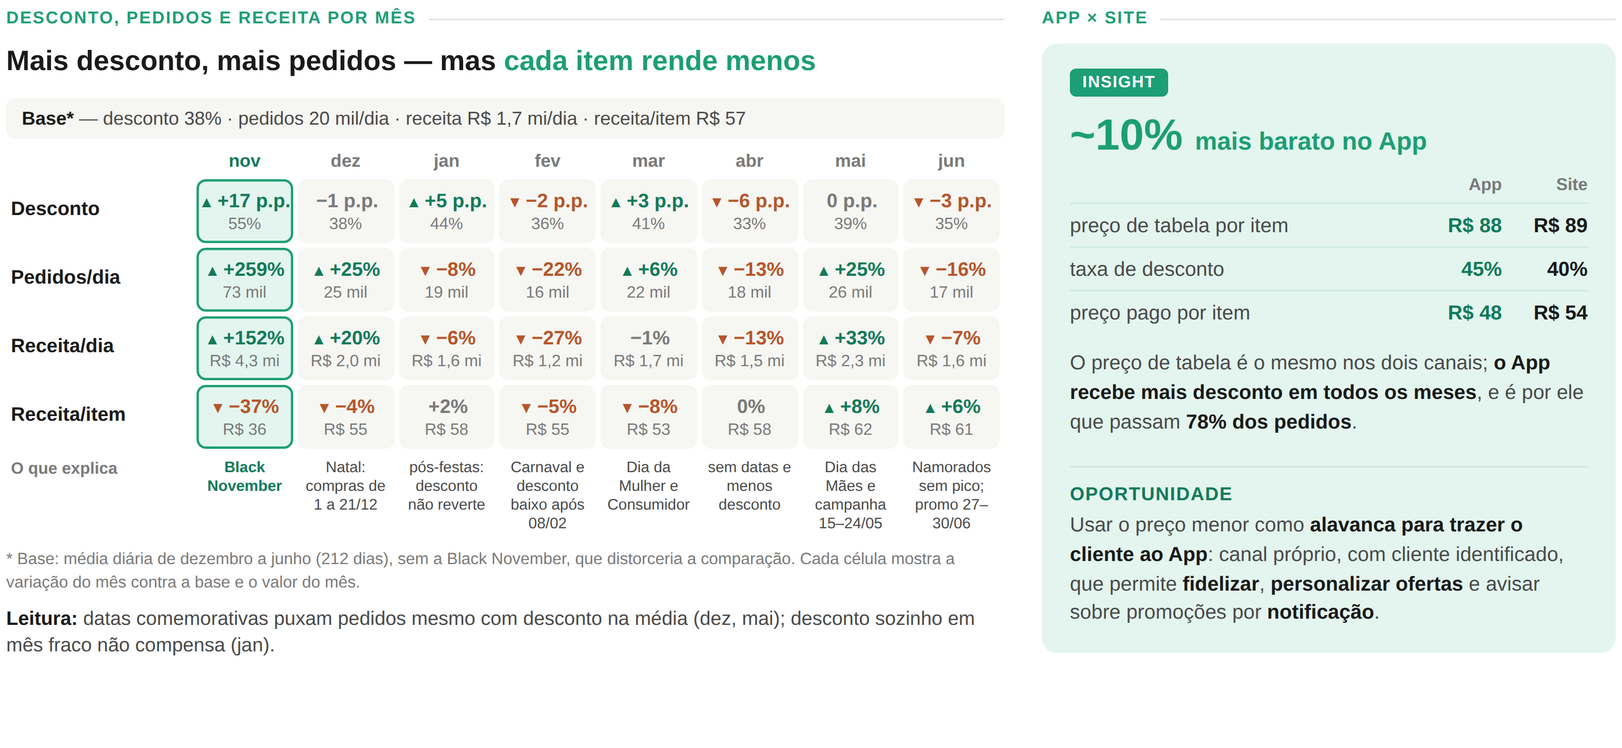
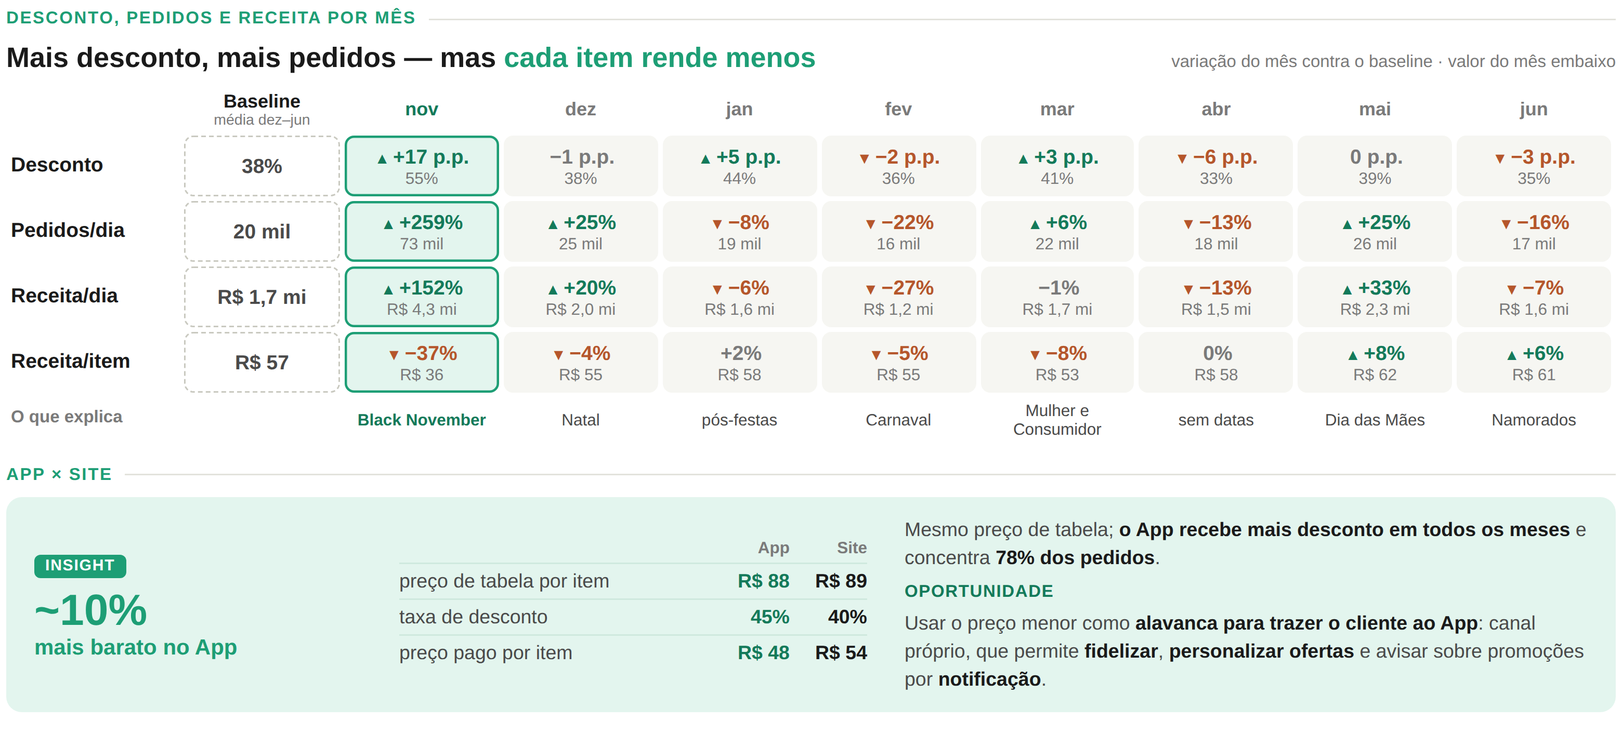
Widget de receita e desconto: coluna de baseline, motivos curtos e insight do App embaixo
Claude-Session: https://claude.ai/code/session_01NUJZKTcM8cs9QBTcUeuacF

diff --git a/apresentacao/widgets/03_desconto.html b/apresentacao/widgets/03_desconto.html
@@ -8,7 +8,6 @@
     --verde: #1d9e75;
     --verde-escuro: #137a5a;
     --verde-claro: #e3f5ee;
-    --verde-medio: #a6d9c6;
     --tinta: #1a1a1a;
     --tinta-2: #4a4a4a;
     --tinta-3: #7a7a7a;
@@ -20,61 +19,55 @@
     width: 1040px; height: 480px; background: var(--fundo);
     font-family: Arial, "Helvetica Neue", Helvetica, sans-serif; color: var(--tinta);
   }
-  .widget { display: grid; grid-template-columns: 640px 1fr; gap: 24px; height: 100%; padding: 6px 4px; }
+  .widget { display: grid; grid-template-rows: auto 1fr; gap: 14px; height: 100%; padding: 6px 4px; }
   .rotulo {
     font-size: 11px; font-weight: 700; letter-spacing: .08em; text-transform: uppercase;
-    color: var(--verde); margin-bottom: 10px; display: flex; align-items: center; gap: 8px;
+    color: var(--verde); margin-bottom: 8px; display: flex; align-items: center; gap: 8px;
   }
   .rotulo::after { content: ""; flex: 1; height: 1px; background: var(--linha); }
-  h3 { font-size: 18px; line-height: 1.25; font-weight: 700; margin-bottom: 12px; }
+  .topo { display: flex; align-items: baseline; justify-content: space-between; margin-bottom: 6px; }
+  h3 { font-size: 18px; line-height: 1.25; font-weight: 700; }
   h3 span { color: var(--verde); }
-  .nota { font-size: 12px; color: var(--tinta-2); line-height: 1.4; margin-top: 8px; }
-  .nota b { color: var(--tinta); }
+  .legenda-m { font-size: 11px; color: var(--tinta-3); }
 
+  /* matriz */
   .matriz { width: 100%; border-collapse: separate; border-spacing: 3px; table-layout: fixed; }
-  .matriz th.linha { white-space: nowrap; }
-  .matriz th { font-size: 11.5px; color: var(--tinta-3); font-weight: 700; text-align: center; padding-bottom: 2px; }
+  .matriz th { font-size: 12px; color: var(--tinta-3); font-weight: 700; text-align: center; padding-bottom: 1px; }
   .matriz th.nov { color: var(--verde-escuro); }
-  .matriz th.linha { width: 116px; text-align: left; font-size: 12.5px; color: var(--tinta); }
-  .matriz th.linha span { display: block; white-space: nowrap; font-size: 10px; font-weight: 400; color: var(--tinta-3); margin-top: 2px; }
-  .matriz td { text-align: center; border-radius: 6px; padding: 7px 1px 6px; background: #f6f6f2; }
+  .matriz th.linha { width: 108px; text-align: left; font-size: 13px; color: var(--tinta); white-space: nowrap; }
+  .matriz th.base-cab { width: 100px; color: var(--tinta); }
+  .matriz th.base-cab span { display: block; font-size: 9.5px; font-weight: 400; color: var(--tinta-3); }
+  .matriz td { text-align: center; border-radius: 6px; padding: 6px 1px 5px; background: #f6f6f2; }
+  .matriz td.base { background: #ffffff; border: 1px dashed #c9c9c0; font-size: 13px; font-weight: 700; color: var(--tinta-2); }
   .matriz td.nov { background: var(--verde-claro); box-shadow: inset 0 0 0 1.5px var(--verde); }
-  .delta { font-size: 12.5px; font-weight: 700; white-space: nowrap; }
+  .delta { font-size: 13px; font-weight: 700; white-space: nowrap; }
   .seta { font-size: 10px; margin-right: 2px; }
   .sobe .delta { color: var(--verde-escuro); }
   .desce .delta { color: #b5562b; }
   .neutro .delta { color: var(--tinta-3); }
-  .abs { font-size: 10.5px; color: var(--tinta-3); margin-top: 2px; white-space: nowrap; }
-  .base-linha { font-size: 12px; color: var(--tinta-2); background: #f6f6f2; border-radius: 6px; padding: 6px 10px; margin-bottom: 6px; }
-  .base-linha b { color: var(--tinta); }
-  .matriz td.motivo { background: none; font-size: 9.8px; line-height: 1.25; color: var(--tinta-2); padding: 4px 2px 0; vertical-align: top; }
+  .abs { font-size: 10.5px; color: var(--tinta-3); margin-top: 1px; white-space: nowrap; }
+  .matriz td.motivo { background: none; border: none; font-size: 10.5px; color: var(--tinta-2); padding: 3px 2px 0; }
   .matriz td.motivo.nov { box-shadow: none; color: var(--verde-escuro); font-weight: 700; }
-  .matriz th.motivo-tit { font-size: 10.5px; color: var(--tinta-3); vertical-align: top; padding-top: 4px; }
-  .leitura { font-size: 12.5px; color: var(--tinta-2); margin-top: 8px; line-height: 1.4; }
-  .leitura b { color: var(--tinta); }
-  .legenda-m { font-size: 10.5px; color: var(--tinta-3); margin-top: 6px; line-height: 1.35; }
-  .legenda-m b { color: var(--tinta-2); }
-  .leituras { margin-top: 10px; padding-left: 16px; font-size: 12.5px; color: var(--tinta-2); line-height: 1.45; }
-  .leituras li { margin-bottom: 3px; }
-  .leituras b { color: var(--tinta); }
+  .matriz th.motivo-tit { font-size: 11px; color: var(--tinta-3); font-weight: 700; }
 
-  .insight { background: var(--verde-claro); border-radius: 10px; padding: 16px 18px; display: flex; flex-direction: column; }
+  /* insight App × Site (faixa horizontal) */
+  .insight { background: var(--verde-claro); border-radius: 10px; padding: 12px 18px; display: grid;
+             grid-template-columns: 210px 300px 1fr; gap: 24px; align-items: center; }
   .selo {
-    align-self: flex-start; font-size: 10.5px; font-weight: 700; letter-spacing: .06em; text-transform: uppercase;
-    color: #fff; background: var(--verde); border-radius: 4px; padding: 3px 8px; margin-bottom: 10px;
+    display: inline-block; font-size: 10px; font-weight: 700; letter-spacing: .06em; text-transform: uppercase;
+    color: #fff; background: var(--verde); border-radius: 4px; padding: 2px 7px; margin-bottom: 6px;
   }
   .valor-g { font-size: 28px; font-weight: 700; color: var(--verde); line-height: 1.05; }
-  .valor-g small { font-size: 16px; }
-  .comp { width: 100%; border-collapse: collapse; margin: 12px 0 10px; font-size: 13px; }
-  .comp th { text-align: right; font-size: 11px; color: var(--tinta-3); font-weight: 700; padding: 0 0 5px; }
+  .valor-g small { display: block; font-size: 14px; margin-top: 2px; }
+  .comp { width: 100%; border-collapse: collapse; font-size: 12.5px; }
+  .comp th { text-align: right; font-size: 10.5px; color: var(--tinta-3); font-weight: 700; padding: 0 0 3px; }
   .comp th:first-child, .comp td:first-child { text-align: left; }
-  .comp td { padding: 6px 0; border-top: 1px solid #cfe9de; text-align: right; color: var(--tinta-2); }
+  .comp td { padding: 4px 0; border-top: 1px solid #cfe9de; text-align: right; color: var(--tinta-2); }
   .comp td.app { color: var(--verde-escuro); font-weight: 700; }
   .comp td.site { color: var(--tinta); font-weight: 700; }
-  .texto { font-size: 13px; color: var(--tinta-2); line-height: 1.45; }
+  .texto { font-size: 12.5px; color: var(--tinta-2); line-height: 1.45; }
   .texto b { color: var(--tinta); }
-  .oportunidade { margin-top: 18px; border-top: 1px solid #cfe9de; padding-top: 10px; }
-  .oportunidade .tit { font-size: 12px; font-weight: 700; color: var(--verde-escuro); text-transform: uppercase; letter-spacing: .05em; margin-bottom: 4px; }
+  .texto .tit { display: block; font-size: 11px; font-weight: 700; color: var(--verde-escuro); text-transform: uppercase; letter-spacing: .05em; margin: 6px 0 2px; }
 </style>
 </head>
 <body>
@@ -82,28 +75,30 @@
 
   <section>
     <div class="rotulo">Desconto, pedidos e receita por mês</div>
-    <h3>Mais desconto, mais pedidos — mas <span>cada item rende menos</span></h3>
-    <div class="base-linha"><b>Base*</b> — desconto 38% · pedidos 20 mil/dia · receita R$ 1,7 mi/dia · receita/item R$ 57</div>
-    <table class="matriz"><tr><th class="linha"></th><th class="nov">nov</th><th class="">dez</th><th class="">jan</th><th class="">fev</th><th class="">mar</th><th class="">abr</th><th class="">mai</th><th class="">jun</th></tr><tr><th class="linha">Desconto</th><td class="sobe nov"><div class="delta"><span class="seta">▲</span>+17 p.p.</div><div class="abs">55%</div></td><td class="neutro"><div class="delta"><span class="seta"></span>−1 p.p.</div><div class="abs">38%</div></td><td class="sobe"><div class="delta"><span class="seta">▲</span>+5 p.p.</div><div class="abs">44%</div></td><td class="desce"><div class="delta"><span class="seta">▼</span>−2 p.p.</div><div class="abs">36%</div></td><td class="sobe"><div class="delta"><span class="seta">▲</span>+3 p.p.</div><div class="abs">41%</div></td><td class="desce"><div class="delta"><span class="seta">▼</span>−6 p.p.</div><div class="abs">33%</div></td><td class="neutro"><div class="delta"><span class="seta"></span>0 p.p.</div><div class="abs">39%</div></td><td class="desce"><div class="delta"><span class="seta">▼</span>−3 p.p.</div><div class="abs">35%</div></td></tr><tr><th class="linha">Pedidos/dia</th><td class="sobe nov"><div class="delta"><span class="seta">▲</span>+259%</div><div class="abs">73 mil</div></td><td class="sobe"><div class="delta"><span class="seta">▲</span>+25%</div><div class="abs">25 mil</div></td><td class="desce"><div class="delta"><span class="seta">▼</span>−8%</div><div class="abs">19 mil</div></td><td class="desce"><div class="delta"><span class="seta">▼</span>−22%</div><div class="abs">16 mil</div></td><td class="sobe"><div class="delta"><span class="seta">▲</span>+6%</div><div class="abs">22 mil</div></td><td class="desce"><div class="delta"><span class="seta">▼</span>−13%</div><div class="abs">18 mil</div></td><td class="sobe"><div class="delta"><span class="seta">▲</span>+25%</div><div class="abs">26 mil</div></td><td class="desce"><div class="delta"><span class="seta">▼</span>−16%</div><div class="abs">17 mil</div></td></tr><tr><th class="linha">Receita/dia</th><td class="sobe nov"><div class="delta"><span class="seta">▲</span>+152%</div><div class="abs">R$ 4,3 mi</div></td><td class="sobe"><div class="delta"><span class="seta">▲</span>+20%</div><div class="abs">R$ 2,0 mi</div></td><td class="desce"><div class="delta"><span class="seta">▼</span>−6%</div><div class="abs">R$ 1,6 mi</div></td><td class="desce"><div class="delta"><span class="seta">▼</span>−27%</div><div class="abs">R$ 1,2 mi</div></td><td class="neutro"><div class="delta"><span class="seta"></span>−1%</div><div class="abs">R$ 1,7 mi</div></td><td class="desce"><div class="delta"><span class="seta">▼</span>−13%</div><div class="abs">R$ 1,5 mi</div></td><td class="sobe"><div class="delta"><span class="seta">▲</span>+33%</div><div class="abs">R$ 2,3 mi</div></td><td class="desce"><div class="delta"><span class="seta">▼</span>−7%</div><div class="abs">R$ 1,6 mi</div></td></tr><tr><th class="linha">Receita/item</th><td class="desce nov"><div class="delta"><span class="seta">▼</span>−37%</div><div class="abs">R$ 36</div></td><td class="desce"><div class="delta"><span class="seta">▼</span>−4%</div><div class="abs">R$ 55</div></td><td class="neutro"><div class="delta"><span class="seta"></span>+2%</div><div class="abs">R$ 58</div></td><td class="desce"><div class="delta"><span class="seta">▼</span>−5%</div><div class="abs">R$ 55</div></td><td class="desce"><div class="delta"><span class="seta">▼</span>−8%</div><div class="abs">R$ 53</div></td><td class="neutro"><div class="delta"><span class="seta"></span>0%</div><div class="abs">R$ 58</div></td><td class="sobe"><div class="delta"><span class="seta">▲</span>+8%</div><div class="abs">R$ 62</div></td><td class="sobe"><div class="delta"><span class="seta">▲</span>+6%</div><div class="abs">R$ 61</div></td></tr><tr><th class="linha motivo-tit">O que explica</th><td class="motivo nov">Black November</td><td class="motivo">Natal: compras de 1 a 21/12</td><td class="motivo">pós-festas: desconto não reverte</td><td class="motivo">Carnaval e desconto baixo após 08/02</td><td class="motivo">Dia da Mulher e Consumidor</td><td class="motivo">sem datas e menos desconto</td><td class="motivo">Dia das Mães e campanha 15–24/05</td><td class="motivo">Namorados sem pico; promo 27–30/06</td></tr></table>
-    <div class="legenda-m">* Base: média diária de dezembro a junho (212 dias), sem a Black November, que distorceria a comparação. Cada célula mostra a variação do mês contra a base e o valor do mês.</div>
-    <div class="leitura"><b>Leitura:</b> datas comemorativas puxam pedidos mesmo com desconto na média (dez, mai); desconto sozinho em mês fraco não compensa (jan).</div>
+    <div class="topo">
+      <h3>Mais desconto, mais pedidos — mas <span>cada item rende menos</span></h3>
+      <div class="legenda-m">variação do mês contra o baseline · valor do mês embaixo</div>
+    </div>
+    <table class="matriz"><tr><th class="linha"></th><th class="base-cab">Baseline<span>média dez–jun</span></th><th class="nov">nov</th><th class="">dez</th><th class="">jan</th><th class="">fev</th><th class="">mar</th><th class="">abr</th><th class="">mai</th><th class="">jun</th></tr><tr><th class="linha">Desconto</th><td class="base">38%</td><td class="sobe nov"><div class="delta"><span class="seta">▲</span>+17 p.p.</div><div class="abs">55%</div></td><td class="neutro"><div class="delta"><span class="seta"></span>−1 p.p.</div><div class="abs">38%</div></td><td class="sobe"><div class="delta"><span class="seta">▲</span>+5 p.p.</div><div class="abs">44%</div></td><td class="desce"><div class="delta"><span class="seta">▼</span>−2 p.p.</div><div class="abs">36%</div></td><td class="sobe"><div class="delta"><span class="seta">▲</span>+3 p.p.</div><div class="abs">41%</div></td><td class="desce"><div class="delta"><span class="seta">▼</span>−6 p.p.</div><div class="abs">33%</div></td><td class="neutro"><div class="delta"><span class="seta"></span>0 p.p.</div><div class="abs">39%</div></td><td class="desce"><div class="delta"><span class="seta">▼</span>−3 p.p.</div><div class="abs">35%</div></td></tr><tr><th class="linha">Pedidos/dia</th><td class="base">20 mil</td><td class="sobe nov"><div class="delta"><span class="seta">▲</span>+259%</div><div class="abs">73 mil</div></td><td class="sobe"><div class="delta"><span class="seta">▲</span>+25%</div><div class="abs">25 mil</div></td><td class="desce"><div class="delta"><span class="seta">▼</span>−8%</div><div class="abs">19 mil</div></td><td class="desce"><div class="delta"><span class="seta">▼</span>−22%</div><div class="abs">16 mil</div></td><td class="sobe"><div class="delta"><span class="seta">▲</span>+6%</div><div class="abs">22 mil</div></td><td class="desce"><div class="delta"><span class="seta">▼</span>−13%</div><div class="abs">18 mil</div></td><td class="sobe"><div class="delta"><span class="seta">▲</span>+25%</div><div class="abs">26 mil</div></td><td class="desce"><div class="delta"><span class="seta">▼</span>−16%</div><div class="abs">17 mil</div></td></tr><tr><th class="linha">Receita/dia</th><td class="base">R$ 1,7 mi</td><td class="sobe nov"><div class="delta"><span class="seta">▲</span>+152%</div><div class="abs">R$ 4,3 mi</div></td><td class="sobe"><div class="delta"><span class="seta">▲</span>+20%</div><div class="abs">R$ 2,0 mi</div></td><td class="desce"><div class="delta"><span class="seta">▼</span>−6%</div><div class="abs">R$ 1,6 mi</div></td><td class="desce"><div class="delta"><span class="seta">▼</span>−27%</div><div class="abs">R$ 1,2 mi</div></td><td class="neutro"><div class="delta"><span class="seta"></span>−1%</div><div class="abs">R$ 1,7 mi</div></td><td class="desce"><div class="delta"><span class="seta">▼</span>−13%</div><div class="abs">R$ 1,5 mi</div></td><td class="sobe"><div class="delta"><span class="seta">▲</span>+33%</div><div class="abs">R$ 2,3 mi</div></td><td class="desce"><div class="delta"><span class="seta">▼</span>−7%</div><div class="abs">R$ 1,6 mi</div></td></tr><tr><th class="linha">Receita/item</th><td class="base">R$ 57</td><td class="desce nov"><div class="delta"><span class="seta">▼</span>−37%</div><div class="abs">R$ 36</div></td><td class="desce"><div class="delta"><span class="seta">▼</span>−4%</div><div class="abs">R$ 55</div></td><td class="neutro"><div class="delta"><span class="seta"></span>+2%</div><div class="abs">R$ 58</div></td><td class="desce"><div class="delta"><span class="seta">▼</span>−5%</div><div class="abs">R$ 55</div></td><td class="desce"><div class="delta"><span class="seta">▼</span>−8%</div><div class="abs">R$ 53</div></td><td class="neutro"><div class="delta"><span class="seta"></span>0%</div><div class="abs">R$ 58</div></td><td class="sobe"><div class="delta"><span class="seta">▲</span>+8%</div><div class="abs">R$ 62</div></td><td class="sobe"><div class="delta"><span class="seta">▲</span>+6%</div><div class="abs">R$ 61</div></td></tr><tr><th class="linha motivo-tit">O que explica</th><td class="motivo"></td><td class="motivo nov">Black November</td><td class="motivo">Natal</td><td class="motivo">pós-festas</td><td class="motivo">Carnaval</td><td class="motivo">Mulher e Consumidor</td><td class="motivo">sem datas</td><td class="motivo">Dia das Mães</td><td class="motivo">Namorados</td></tr></table>
   </section>
 
   <section>
     <div class="rotulo">App × Site</div>
     <div class="insight">
-      <span class="selo">Insight</span>
-      <div class="valor-g">~10% <small>mais barato no App</small></div>
+      <div>
+        <span class="selo">Insight</span>
+        <div class="valor-g">~10% <small>mais barato no App</small></div>
+      </div>
       <table class="comp">
         <tr><th></th><th>App</th><th>Site</th></tr>
         <tr><td>preço de tabela por item</td><td class="app">R$ 88</td><td class="site">R$ 89</td></tr>
         <tr><td>taxa de desconto</td><td class="app">45%</td><td class="site">40%</td></tr>
         <tr><td>preço pago por item</td><td class="app">R$ 48</td><td class="site">R$ 54</td></tr>
       </table>
-      <div class="texto">O preço de tabela é o mesmo nos dois canais; <b>o App recebe mais desconto em todos os meses</b>, e é por ele que passam <b>78% dos pedidos</b>.</div>
-      <div class="oportunidade">
-        <div class="tit">Oportunidade</div>
-        <div class="texto">Usar o preço menor como <b>alavanca para trazer o cliente ao App</b>: canal próprio, com cliente identificado, que permite <b>fidelizar</b>, <b>personalizar ofertas</b> e avisar sobre promoções por <b>notificação</b>.</div>
+      <div class="texto">
+        Mesmo preço de tabela; <b>o App recebe mais desconto em todos os meses</b> e concentra <b>78% dos pedidos</b>.
+        <span class="tit">Oportunidade</span>
+        Usar o preço menor como <b>alavanca para trazer o cliente ao App</b>: canal próprio, que permite <b>fidelizar</b>, <b>personalizar ofertas</b> e avisar sobre promoções por <b>notificação</b>.
       </div>
     </div>
   </section>

diff --git a/apresentacao/geradores/03_desconto_modelo.html b/apresentacao/geradores/03_desconto_modelo.html
@@ -8,7 +8,6 @@
     --verde: #1d9e75;
     --verde-escuro: #137a5a;
     --verde-claro: #e3f5ee;
-    --verde-medio: #a6d9c6;
     --tinta: #1a1a1a;
     --tinta-2: #4a4a4a;
     --tinta-3: #7a7a7a;
@@ -20,61 +19,55 @@
     width: 1040px; height: 480px; background: var(--fundo);
     font-family: Arial, "Helvetica Neue", Helvetica, sans-serif; color: var(--tinta);
   }
-  .widget { display: grid; grid-template-columns: 640px 1fr; gap: 24px; height: 100%; padding: 6px 4px; }
+  .widget { display: grid; grid-template-rows: auto 1fr; gap: 14px; height: 100%; padding: 6px 4px; }
   .rotulo {
     font-size: 11px; font-weight: 700; letter-spacing: .08em; text-transform: uppercase;
-    color: var(--verde); margin-bottom: 10px; display: flex; align-items: center; gap: 8px;
+    color: var(--verde); margin-bottom: 8px; display: flex; align-items: center; gap: 8px;
   }
   .rotulo::after { content: ""; flex: 1; height: 1px; background: var(--linha); }
-  h3 { font-size: 18px; line-height: 1.25; font-weight: 700; margin-bottom: 12px; }
+  .topo { display: flex; align-items: baseline; justify-content: space-between; margin-bottom: 6px; }
+  h3 { font-size: 18px; line-height: 1.25; font-weight: 700; }
   h3 span { color: var(--verde); }
-  .nota { font-size: 12px; color: var(--tinta-2); line-height: 1.4; margin-top: 8px; }
-  .nota b { color: var(--tinta); }
+  .legenda-m { font-size: 11px; color: var(--tinta-3); }
 
+  /* matriz */
   .matriz { width: 100%; border-collapse: separate; border-spacing: 3px; table-layout: fixed; }
-  .matriz th.linha { white-space: nowrap; }
-  .matriz th { font-size: 11.5px; color: var(--tinta-3); font-weight: 700; text-align: center; padding-bottom: 2px; }
+  .matriz th { font-size: 12px; color: var(--tinta-3); font-weight: 700; text-align: center; padding-bottom: 1px; }
   .matriz th.nov { color: var(--verde-escuro); }
-  .matriz th.linha { width: 116px; text-align: left; font-size: 12.5px; color: var(--tinta); }
-  .matriz th.linha span { display: block; white-space: nowrap; font-size: 10px; font-weight: 400; color: var(--tinta-3); margin-top: 2px; }
-  .matriz td { text-align: center; border-radius: 6px; padding: 7px 1px 6px; background: #f6f6f2; }
+  .matriz th.linha { width: 108px; text-align: left; font-size: 13px; color: var(--tinta); white-space: nowrap; }
+  .matriz th.base-cab { width: 100px; color: var(--tinta); }
+  .matriz th.base-cab span { display: block; font-size: 9.5px; font-weight: 400; color: var(--tinta-3); }
+  .matriz td { text-align: center; border-radius: 6px; padding: 6px 1px 5px; background: #f6f6f2; }
+  .matriz td.base { background: #ffffff; border: 1px dashed #c9c9c0; font-size: 13px; font-weight: 700; color: var(--tinta-2); }
   .matriz td.nov { background: var(--verde-claro); box-shadow: inset 0 0 0 1.5px var(--verde); }
-  .delta { font-size: 12.5px; font-weight: 700; white-space: nowrap; }
+  .delta { font-size: 13px; font-weight: 700; white-space: nowrap; }
   .seta { font-size: 10px; margin-right: 2px; }
   .sobe .delta { color: var(--verde-escuro); }
   .desce .delta { color: #b5562b; }
   .neutro .delta { color: var(--tinta-3); }
-  .abs { font-size: 10.5px; color: var(--tinta-3); margin-top: 2px; white-space: nowrap; }
-  .base-linha { font-size: 12px; color: var(--tinta-2); background: #f6f6f2; border-radius: 6px; padding: 6px 10px; margin-bottom: 6px; }
-  .base-linha b { color: var(--tinta); }
-  .matriz td.motivo { background: none; font-size: 9.8px; line-height: 1.25; color: var(--tinta-2); padding: 4px 2px 0; vertical-align: top; }
+  .abs { font-size: 10.5px; color: var(--tinta-3); margin-top: 1px; white-space: nowrap; }
+  .matriz td.motivo { background: none; border: none; font-size: 10.5px; color: var(--tinta-2); padding: 3px 2px 0; }
   .matriz td.motivo.nov { box-shadow: none; color: var(--verde-escuro); font-weight: 700; }
-  .matriz th.motivo-tit { font-size: 10.5px; color: var(--tinta-3); vertical-align: top; padding-top: 4px; }
-  .leitura { font-size: 12.5px; color: var(--tinta-2); margin-top: 8px; line-height: 1.4; }
-  .leitura b { color: var(--tinta); }
-  .legenda-m { font-size: 10.5px; color: var(--tinta-3); margin-top: 6px; line-height: 1.35; }
-  .legenda-m b { color: var(--tinta-2); }
-  .leituras { margin-top: 10px; padding-left: 16px; font-size: 12.5px; color: var(--tinta-2); line-height: 1.45; }
-  .leituras li { margin-bottom: 3px; }
-  .leituras b { color: var(--tinta); }
+  .matriz th.motivo-tit { font-size: 11px; color: var(--tinta-3); font-weight: 700; }
 
-  .insight { background: var(--verde-claro); border-radius: 10px; padding: 16px 18px; display: flex; flex-direction: column; }
+  /* insight App × Site (faixa horizontal) */
+  .insight { background: var(--verde-claro); border-radius: 10px; padding: 12px 18px; display: grid;
+             grid-template-columns: 210px 300px 1fr; gap: 24px; align-items: center; }
   .selo {
-    align-self: flex-start; font-size: 10.5px; font-weight: 700; letter-spacing: .06em; text-transform: uppercase;
-    color: #fff; background: var(--verde); border-radius: 4px; padding: 3px 8px; margin-bottom: 10px;
+    display: inline-block; font-size: 10px; font-weight: 700; letter-spacing: .06em; text-transform: uppercase;
+    color: #fff; background: var(--verde); border-radius: 4px; padding: 2px 7px; margin-bottom: 6px;
   }
   .valor-g { font-size: 28px; font-weight: 700; color: var(--verde); line-height: 1.05; }
-  .valor-g small { font-size: 16px; }
-  .comp { width: 100%; border-collapse: collapse; margin: 12px 0 10px; font-size: 13px; }
-  .comp th { text-align: right; font-size: 11px; color: var(--tinta-3); font-weight: 700; padding: 0 0 5px; }
+  .valor-g small { display: block; font-size: 14px; margin-top: 2px; }
+  .comp { width: 100%; border-collapse: collapse; font-size: 12.5px; }
+  .comp th { text-align: right; font-size: 10.5px; color: var(--tinta-3); font-weight: 700; padding: 0 0 3px; }
   .comp th:first-child, .comp td:first-child { text-align: left; }
-  .comp td { padding: 6px 0; border-top: 1px solid #cfe9de; text-align: right; color: var(--tinta-2); }
+  .comp td { padding: 4px 0; border-top: 1px solid #cfe9de; text-align: right; color: var(--tinta-2); }
   .comp td.app { color: var(--verde-escuro); font-weight: 700; }
   .comp td.site { color: var(--tinta); font-weight: 700; }
-  .texto { font-size: 13px; color: var(--tinta-2); line-height: 1.45; }
+  .texto { font-size: 12.5px; color: var(--tinta-2); line-height: 1.45; }
   .texto b { color: var(--tinta); }
-  .oportunidade { margin-top: 18px; border-top: 1px solid #cfe9de; padding-top: 10px; }
-  .oportunidade .tit { font-size: 12px; font-weight: 700; color: var(--verde-escuro); text-transform: uppercase; letter-spacing: .05em; margin-bottom: 4px; }
+  .texto .tit { display: block; font-size: 11px; font-weight: 700; color: var(--verde-escuro); text-transform: uppercase; letter-spacing: .05em; margin: 6px 0 2px; }
 </style>
 </head>
 <body>
@@ -82,28 +75,30 @@
 
   <section>
     <div class="rotulo">Desconto, pedidos e receita por mês</div>
-    <h3>Mais desconto, mais pedidos — mas <span>cada item rende menos</span></h3>
-    <div class="base-linha">{{BASE}}</div>
+    <div class="topo">
+      <h3>Mais desconto, mais pedidos — mas <span>cada item rende menos</span></h3>
+      <div class="legenda-m">variação do mês contra o baseline · valor do mês embaixo</div>
+    </div>
     {{MATRIZ}}
-    <div class="legenda-m">* Base: média diária de dezembro a junho (212 dias), sem a Black November, que distorceria a comparação. Cada célula mostra a variação do mês contra a base e o valor do mês.</div>
-    <div class="leitura"><b>Leitura:</b> datas comemorativas puxam pedidos mesmo com desconto na média (dez, mai); desconto sozinho em mês fraco não compensa (jan).</div>
   </section>
 
   <section>
     <div class="rotulo">App × Site</div>
     <div class="insight">
-      <span class="selo">Insight</span>
-      <div class="valor-g">~10% <small>mais barato no App</small></div>
+      <div>
+        <span class="selo">Insight</span>
+        <div class="valor-g">~10% <small>mais barato no App</small></div>
+      </div>
       <table class="comp">
         <tr><th></th><th>App</th><th>Site</th></tr>
         <tr><td>preço de tabela por item</td><td class="app">R$ 88</td><td class="site">R$ 89</td></tr>
         <tr><td>taxa de desconto</td><td class="app">45%</td><td class="site">40%</td></tr>
         <tr><td>preço pago por item</td><td class="app">R$ 48</td><td class="site">R$ 54</td></tr>
       </table>
-      <div class="texto">O preço de tabela é o mesmo nos dois canais; <b>o App recebe mais desconto em todos os meses</b>, e é por ele que passam <b>78% dos pedidos</b>.</div>
-      <div class="oportunidade">
-        <div class="tit">Oportunidade</div>
-        <div class="texto">Usar o preço menor como <b>alavanca para trazer o cliente ao App</b>: canal próprio, com cliente identificado, que permite <b>fidelizar</b>, <b>personalizar ofertas</b> e avisar sobre promoções por <b>notificação</b>.</div>
+      <div class="texto">
+        Mesmo preço de tabela; <b>o App recebe mais desconto em todos os meses</b> e concentra <b>78% dos pedidos</b>.
+        <span class="tit">Oportunidade</span>
+        Usar o preço menor como <b>alavanca para trazer o cliente ao App</b>: canal próprio, que permite <b>fidelizar</b>, <b>personalizar ofertas</b> e avisar sobre promoções por <b>notificação</b>.
       </div>
     </div>
   </section>

diff --git a/apresentacao/geradores/03_desconto.py b/apresentacao/geradores/03_desconto.py
@@ -55,24 +55,22 @@ for titulo, coluna, fmt, tipo, ref_txt in linhas:
         extra = " nov" if r["mes"] == "2025-11" else ""
         tds.append(f'<td class="{classe}{extra}"><div class="delta"><span class="seta">{seta}</span>{texto}</div>'
                    f'<div class="abs">{fmt(r[coluna])}</div></td>')
-    corpo.append(f'<tr><th class="linha">{titulo}</th>{"".join(tds)}</tr>')
+    corpo.append(f'<tr><th class="linha">{titulo}</th><td class="base">{ref_txt}</td>{"".join(tds)}</tr>')
 motivos = {
     "2025-11": "Black November",
-    "2025-12": "Natal: compras de 1 a 21/12",
-    "2026-01": "pós-festas: desconto não reverte",
-    "2026-02": "Carnaval e desconto baixo após 08/02",
-    "2026-03": "Dia da Mulher e Consumidor",
-    "2026-04": "sem datas e menos desconto",
-    "2026-05": "Dia das Mães e campanha 15–24/05",
-    "2026-06": "Namorados sem pico; promo 27–30/06",
+    "2025-12": "Natal",
+    "2026-01": "pós-festas",
+    "2026-02": "Carnaval",
+    "2026-03": "Mulher e Consumidor",
+    "2026-04": "sem datas",
+    "2026-05": "Dia das Mães",
+    "2026-06": "Namorados",
 }
 linha_motivo = "".join(f'<td class="motivo{" nov" if m == "2025-11" else ""}">{motivos[m]}</td>' for m in mensal["mes"])
-corpo.append(f'<tr><th class="linha motivo-tit">O que explica</th>{linha_motivo}</tr>')
-tabela = f'<table class="matriz"><tr><th class="linha"></th>{cab}</tr>{"".join(corpo)}</table>'
+corpo.append(f'<tr><th class="linha motivo-tit">O que explica</th><td class="motivo"></td>{linha_motivo}</tr>')
+tabela = (f'<table class="matriz"><tr><th class="linha"></th><th class="base-cab">Baseline<span>média dez–jun</span></th>'
+          f'{cab}</tr>{"".join(corpo)}</table>')
 
 modelo = Path(__file__).with_name("03_desconto_modelo.html").read_text(encoding="utf-8")
-receita_base = br(f"R$ {ref['rec_dia'] / 1e6:.1f} mi")
-base_txt = (f"<b>Base*</b> — desconto {ref['tx']:.0%} · pedidos {ref['ped_dia'] / 1e3:.0f} mil/dia · "
-            f"receita {receita_base}/dia · receita/item R$ {ref['preco']:.0f}")
-destino.write_text(modelo.replace("{{MATRIZ}}", tabela).replace("{{BASE}}", base_txt), encoding="utf-8")
+destino.write_text(modelo.replace("{{MATRIZ}}", tabela), encoding="utf-8")
 print("ok", destino, {k: round(v, 3) for k, v in ref.items()})
